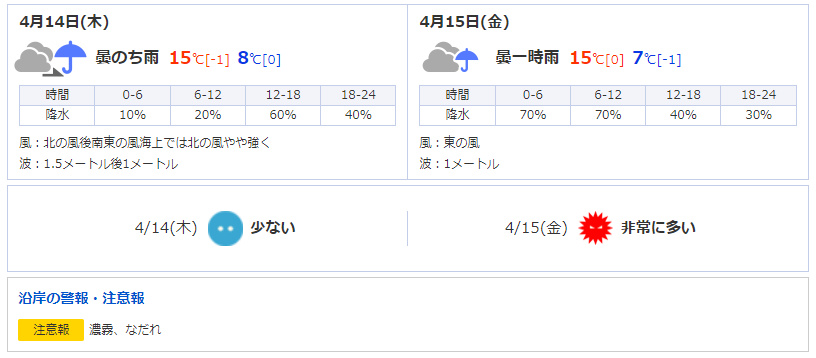
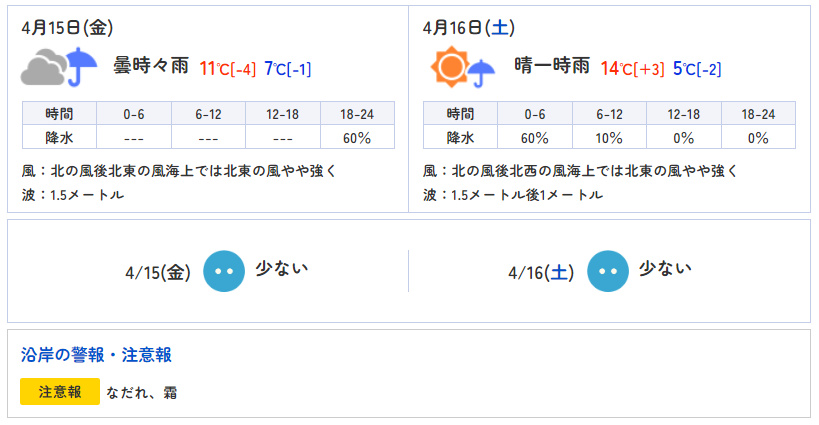
update README

diff --git a/README.md b/README.md
@@ -22,32 +22,32 @@ GetYahooInfo.Weather
 ```js
 {
     0: {
-        'date': '4月14日(木)',
-        'weather': '曇のち雨',
-        'temp_high': '15℃[-1]',
-        'temp_low': '8℃[0]',
-        'fall': {
-            '0-6': '10％',
-            '6-12': '20％',
-            '12-18': '60％',
-            '18-24': '40％'
-        },
-        'wind': '北の風後南東の風海上では北の風やや強く',
-        'wave': '1.5メートル後1メートル'
-    },
-    1: {
         'date': '4月15日(金)',
-        'weather': '曇一時雨',
-        'temp_high': '15℃[0]',
+        'weather': '曇時々雨',
+        'temp_high': '11℃[-4]',
         'temp_low': '7℃[-1]',
         'fall': {
-            '0-6': '70％',
-            '6-12': '70％',
-            '12-18': '40％',
-            '18-24': '30％'
+            '0-6': '---',
+            '6-12': '---',
+            '12-18': '---',
+            '18-24': '60％'
         },
-        'wind': '東の風',
-        'wave': '1メートル'
+        'wind': '北の風後北東の風海上では北東の風やや強く',
+        'wave': '1.5メートル'
+    },
+    1: {
+        'date': '4月16日(土)',
+        'weather': '晴一時雨',
+        'temp_high': '14℃[+3]',
+        'temp_low': '5℃[-2]',
+        'fall': {
+            '0-6': '60％',
+            '6-12': '10％',
+            '12-18': '0％',
+            '18-24': '0％'
+        },
+        'wind': '北の風後北西の風海上では北東の風やや強く',
+        'wave': '1.5メートル後1メートル'
     }
 }
 ```
@@ -56,7 +56,7 @@ GetYahooInfo.Warn
 ```js
 {
     0: {
-        '注意報': '濃霧、なだれ'
+        '注意報': 'なだれ、霜'
     }
 }
 ```
@@ -65,12 +65,12 @@ GetYahooInfo.Kafun
 ```js
 {
     0: {
-        'date': '4/14(木)',
+        'date': '4/15(金)',
         'info': '少ない'
     },
     1: {
-        'date': '4/15(金)',
-        'info': '非常に多い'
+        'date': '4/16(土)',
+        'info': '少ない'
     }
 }
 ```
